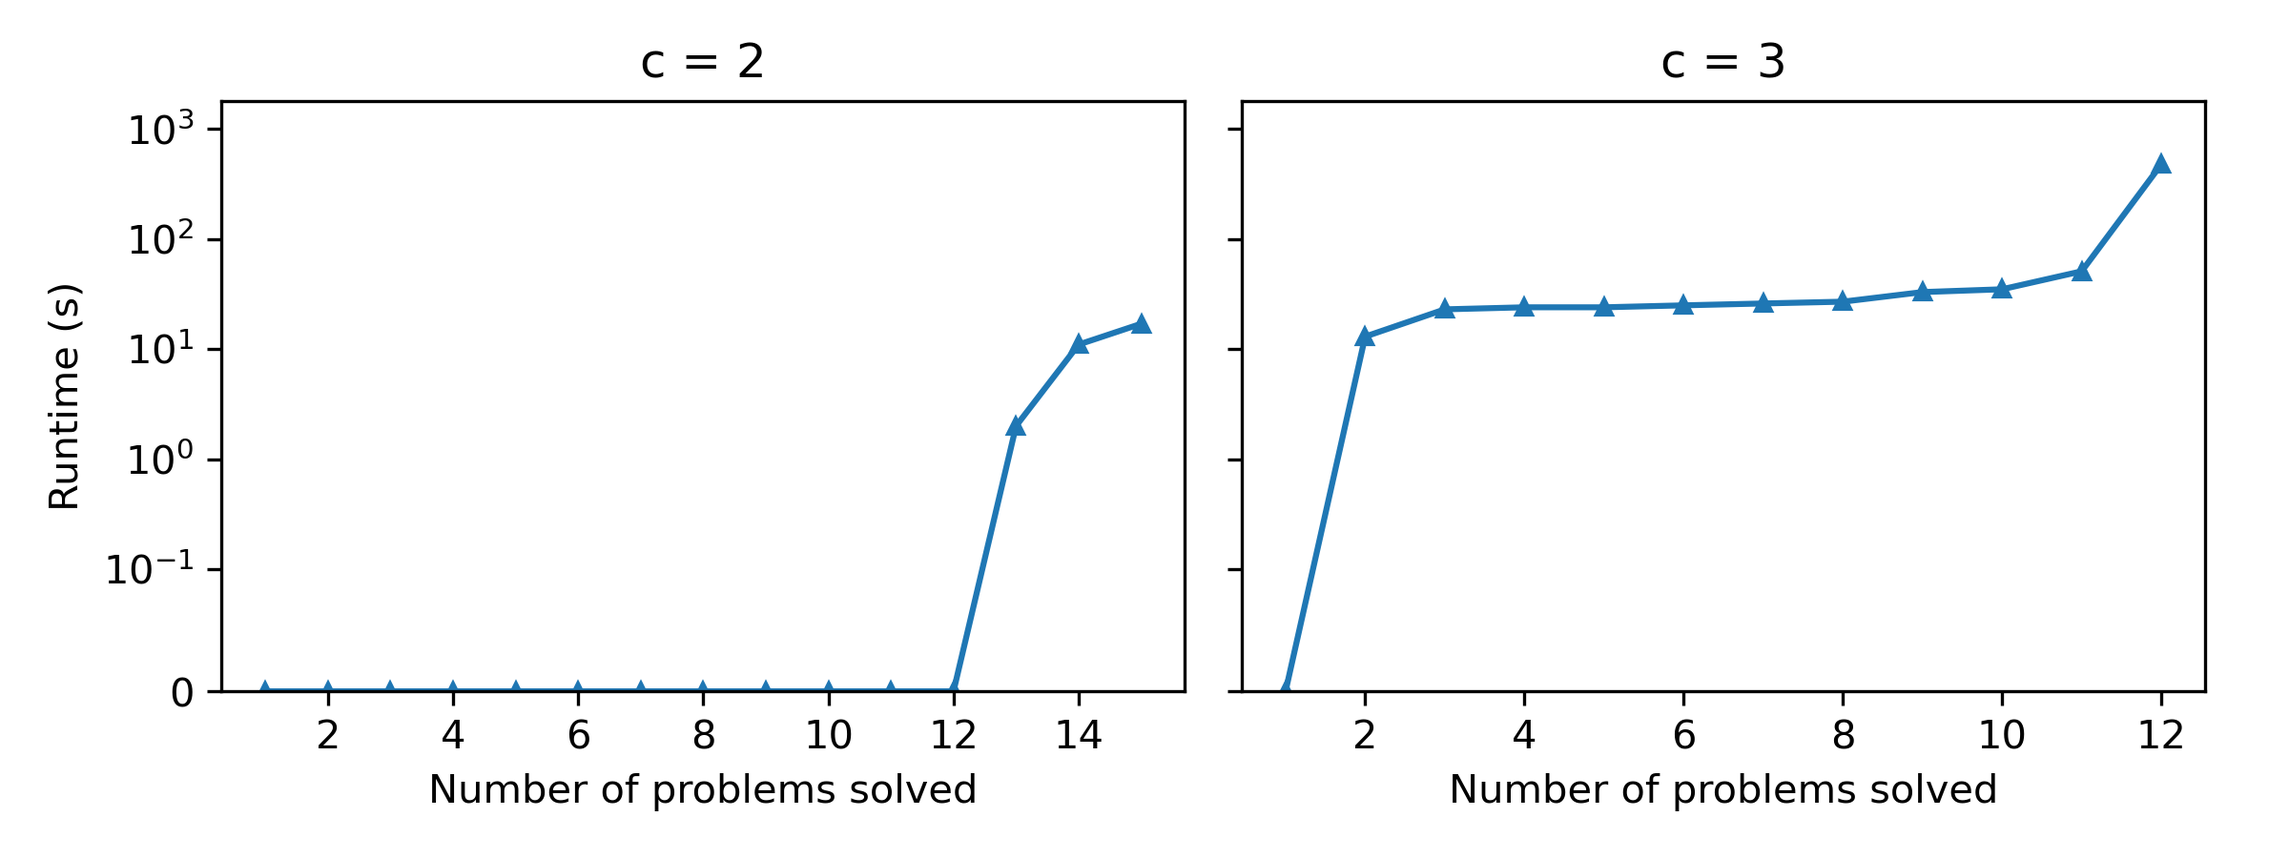
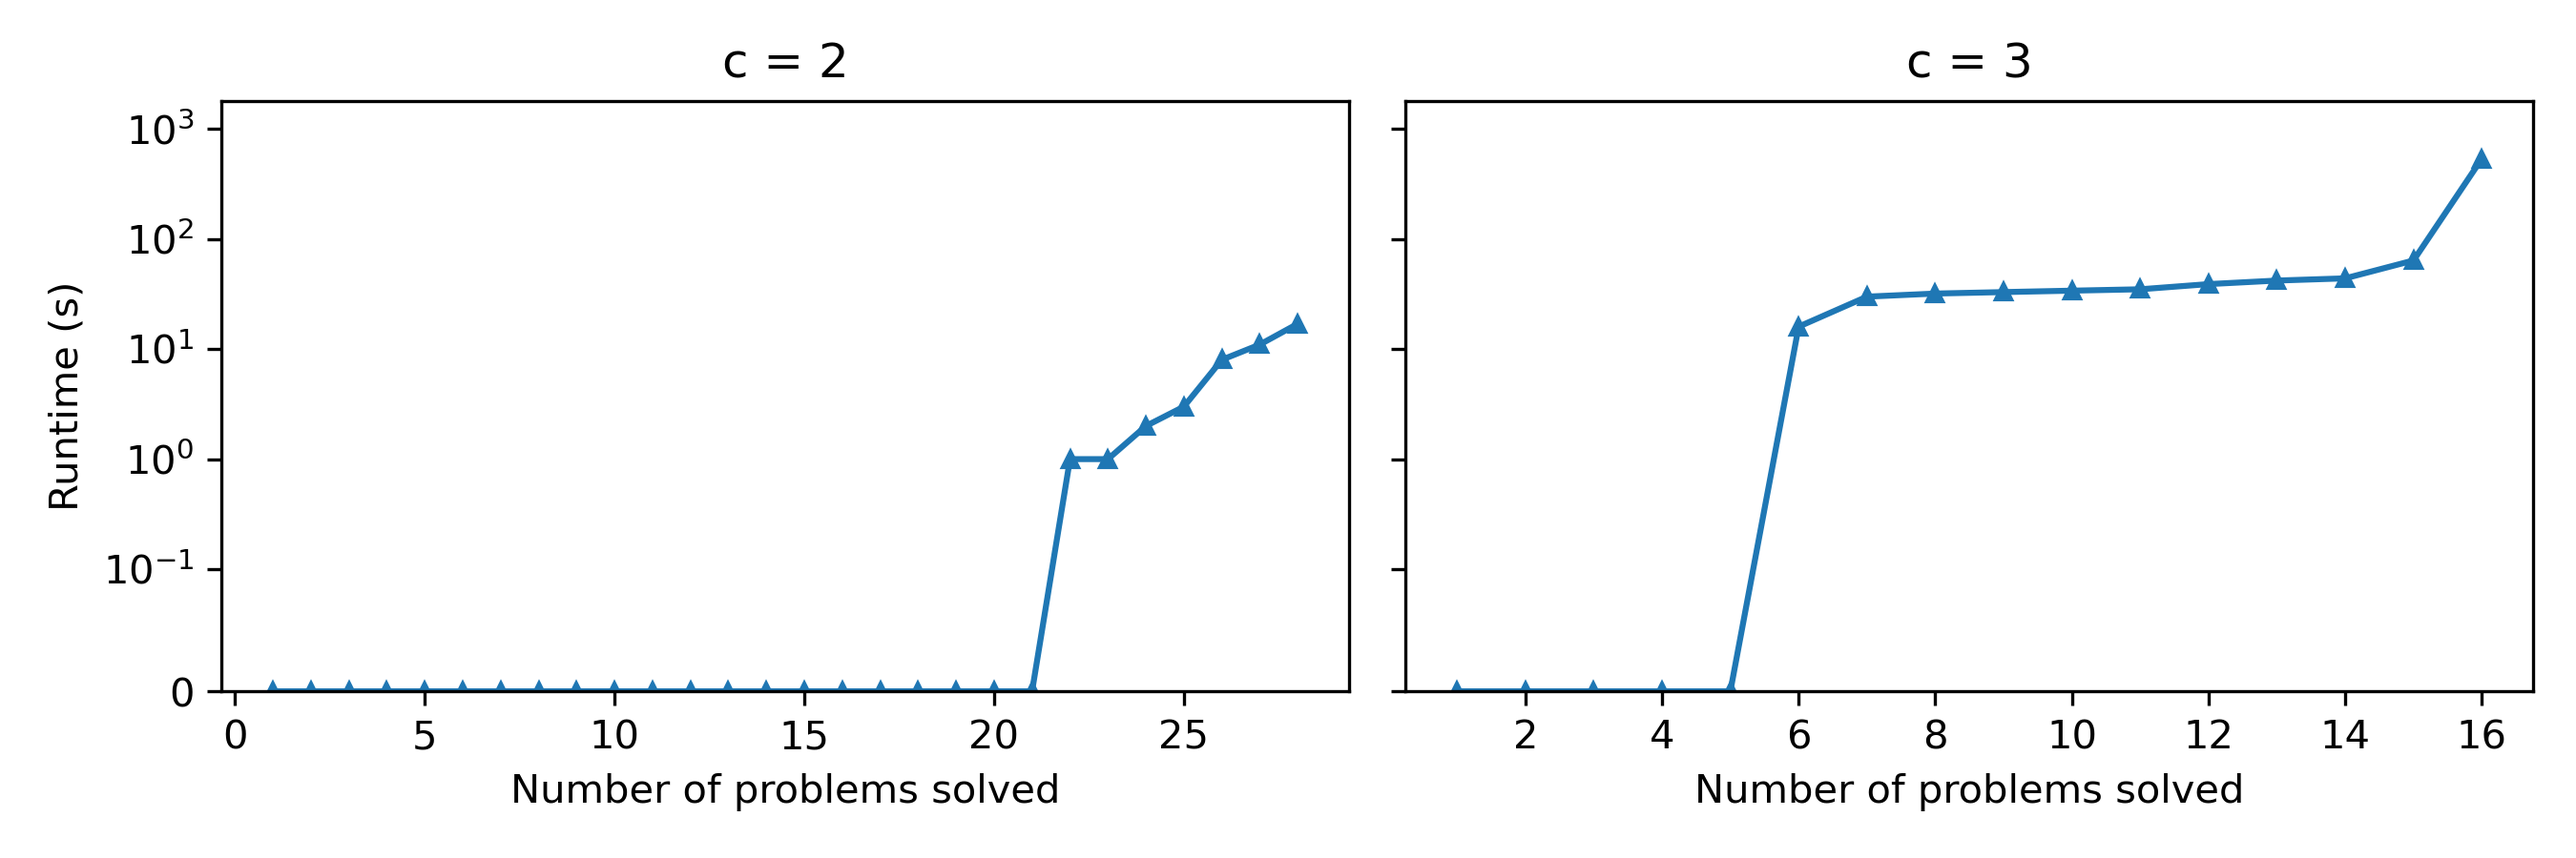
new graphs

diff --git a/IJCAR/experiments/data/mk_data_frame.py b/IJCAR/experiments/data/mk_data_frame.py
@@ -4,12 +4,16 @@ import matplotlib.pyplot as plt
 import numpy as np
 
 C_MAP = {
-    "bench_600_40000": 1,
+    "bench10_2000_40000": 1,
     "bench100_2000_40000": 2,
     "bench1000_2000_40000": 3,
     "bench10000_2000_40000": 4,
     "bench100000_2000_40000": 5,
+    "bench_2000_40000": "*",
 }
+
+with open("good.txt") as f:
+    GOOD_BENCHMARKS = {line.strip() for line in f if line.strip()}
 
 
 def parse_tab(path, solver, c):
@@ -19,24 +23,23 @@ def parse_tab(path, solver, c):
             line = line.strip()
             if not line or ";" not in line:
                 continue
-
             parts = [p.strip() for p in line.split(";")]
             bench_path = parts[0]
             time_part = parts[1]
             status_part = parts[2]
-
             benchmark = Path(bench_path).stem
+
+            if benchmark not in GOOD_BENCHMARKS:
+                continue
 
             time_tokens = time_part.split()
             time_s = int(time_tokens[0])
-
             if "s sat" in status_part:
                 status = "sat"
             elif time_s >= 1800:
                 status = "timeout"
             else:
                 status = "unknown"
-
             rows.append(
                 {
                     "c": c,
@@ -51,42 +54,58 @@ def parse_tab(path, solver, c):
 
 base = Path("tables")
 rows = []
-
 for folder, c in C_MAP.items():
     for solver in ["cvc5", "z3"]:
         tab_file = base / folder / f"{solver}.tab"
         rows.extend(parse_tab(tab_file, solver, c))
 
 df = pd.DataFrame(rows)
-df["c"] = df["c"].astype(int)
+# Create a numeric mapping for plotting
+c_to_numeric = {1: 1, 2: 2, 3: 3, 4: 4, 5: 5, "*": 6}
+df["c_numeric"] = df["c"].map(c_to_numeric)
 
 solved = df[df["status"] == "sat"].groupby(["c", "solver"]).size().unstack(fill_value=0)
+
+# Create numeric index for plotting
+solved_numeric = (
+    df[df["status"] == "sat"]
+    .assign(c_numeric=df["c_numeric"])
+    .groupby(["c_numeric", "solver"])
+    .size()
+    .unstack(fill_value=0)
+)
+
 fig, ax = plt.subplots()
-# Loop over each solver
-for solver in solved.columns:
+for solver in solved_numeric.columns:
     marker = "^" if solver == "cvc5" else "o"
-    ax.plot(solved.index, solved[solver], marker=marker, linestyle='-', label=solver)
+    ax.plot(
+        solved_numeric.index,
+        solved_numeric[solver],
+        marker=marker,
+        linestyle="-",
+        label=solver,
+    )
 ax.legend(title=None)
 plt.xlabel("c")
 plt.ylabel("Number of problems solved")
-plt.xticks(sorted(df["c"].unique()))
+
+# Set custom tick labels
+tick_positions = sorted(c_to_numeric.values())
+tick_labels = [k for k, v in sorted(c_to_numeric.items(), key=lambda x: x[1])]
+plt.xticks(tick_positions, tick_labels)
+
 plt.tight_layout()
 plt.savefig("scaling_plot.png", dpi=300, bbox_inches="tight")
 plt.close()
 
 TIMEOUT = 1800
-
-fig, axes = plt.subplots(1, 2, figsize=(8, 3), sharey=True)
-
+fig, axes = plt.subplots(1, 2, figsize=(9, 3), sharey=True)
 cs = sorted(df[df["c"].isin([2, 3])]["c"].unique())
-
 for ax, c in zip(axes, cs):
     sub = df[(df["c"] == c) & (df["solver"] == "cvc5")]
-
     solved = sub[sub["status"] == "sat"]["time_s"]
     times = np.sort(solved.values)
     x = np.arange(1, len(times) + 1)
-
     ax.plot(
         x,
         times,
@@ -94,14 +113,11 @@ for ax, c in zip(axes, cs):
         markersize=4,
         linewidth=1.5,
     )
-
     ax.set_title(f"c = {c}")
     ax.set_xlabel("Number of problems solved")
     ax.set_yscale("symlog", linthresh=0.1)
     ax.set_ylim(0, TIMEOUT)
-
 axes[0].set_ylabel("Runtime (s)")
-
 plt.tight_layout()
 plt.savefig("cactus_plot.png", dpi=300)
 plt.close()
